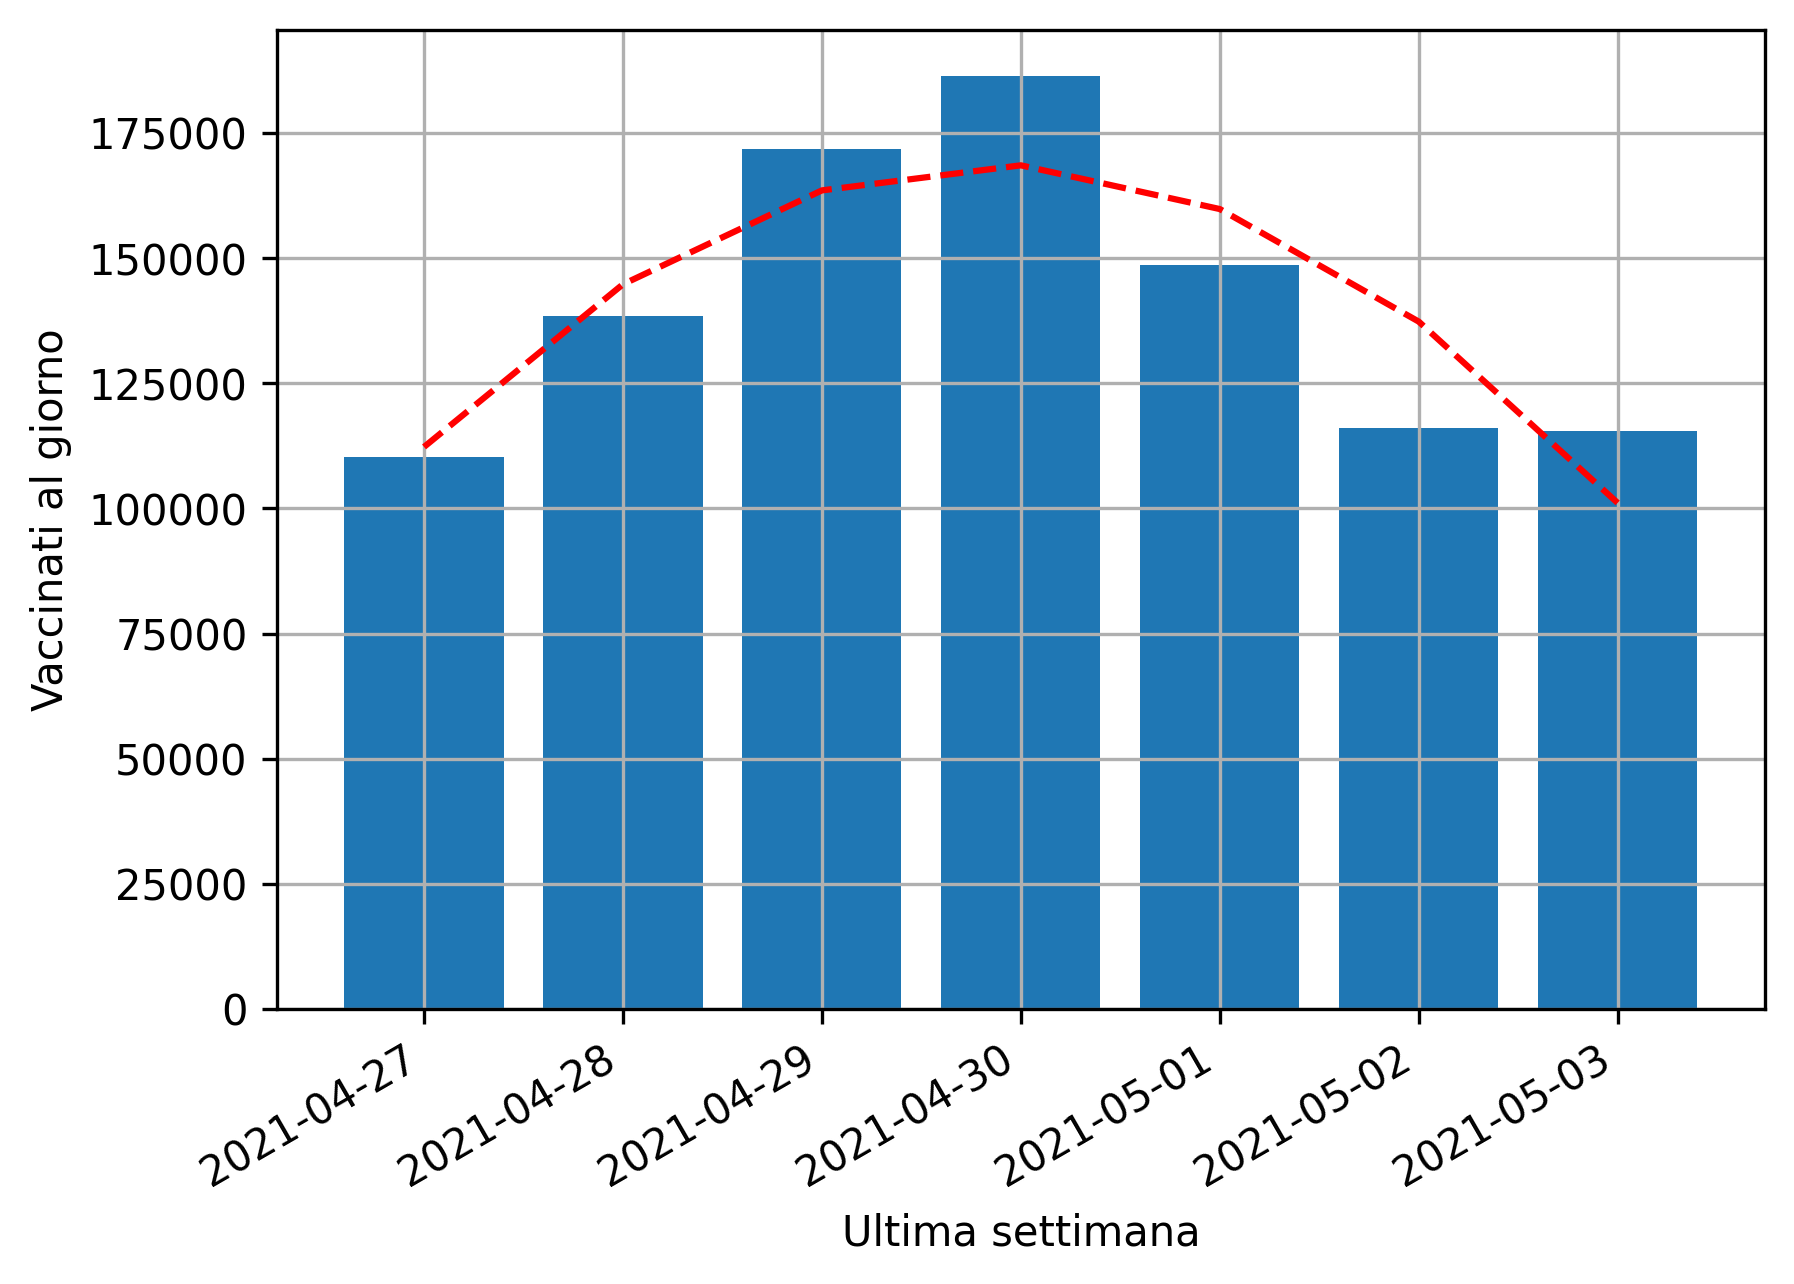
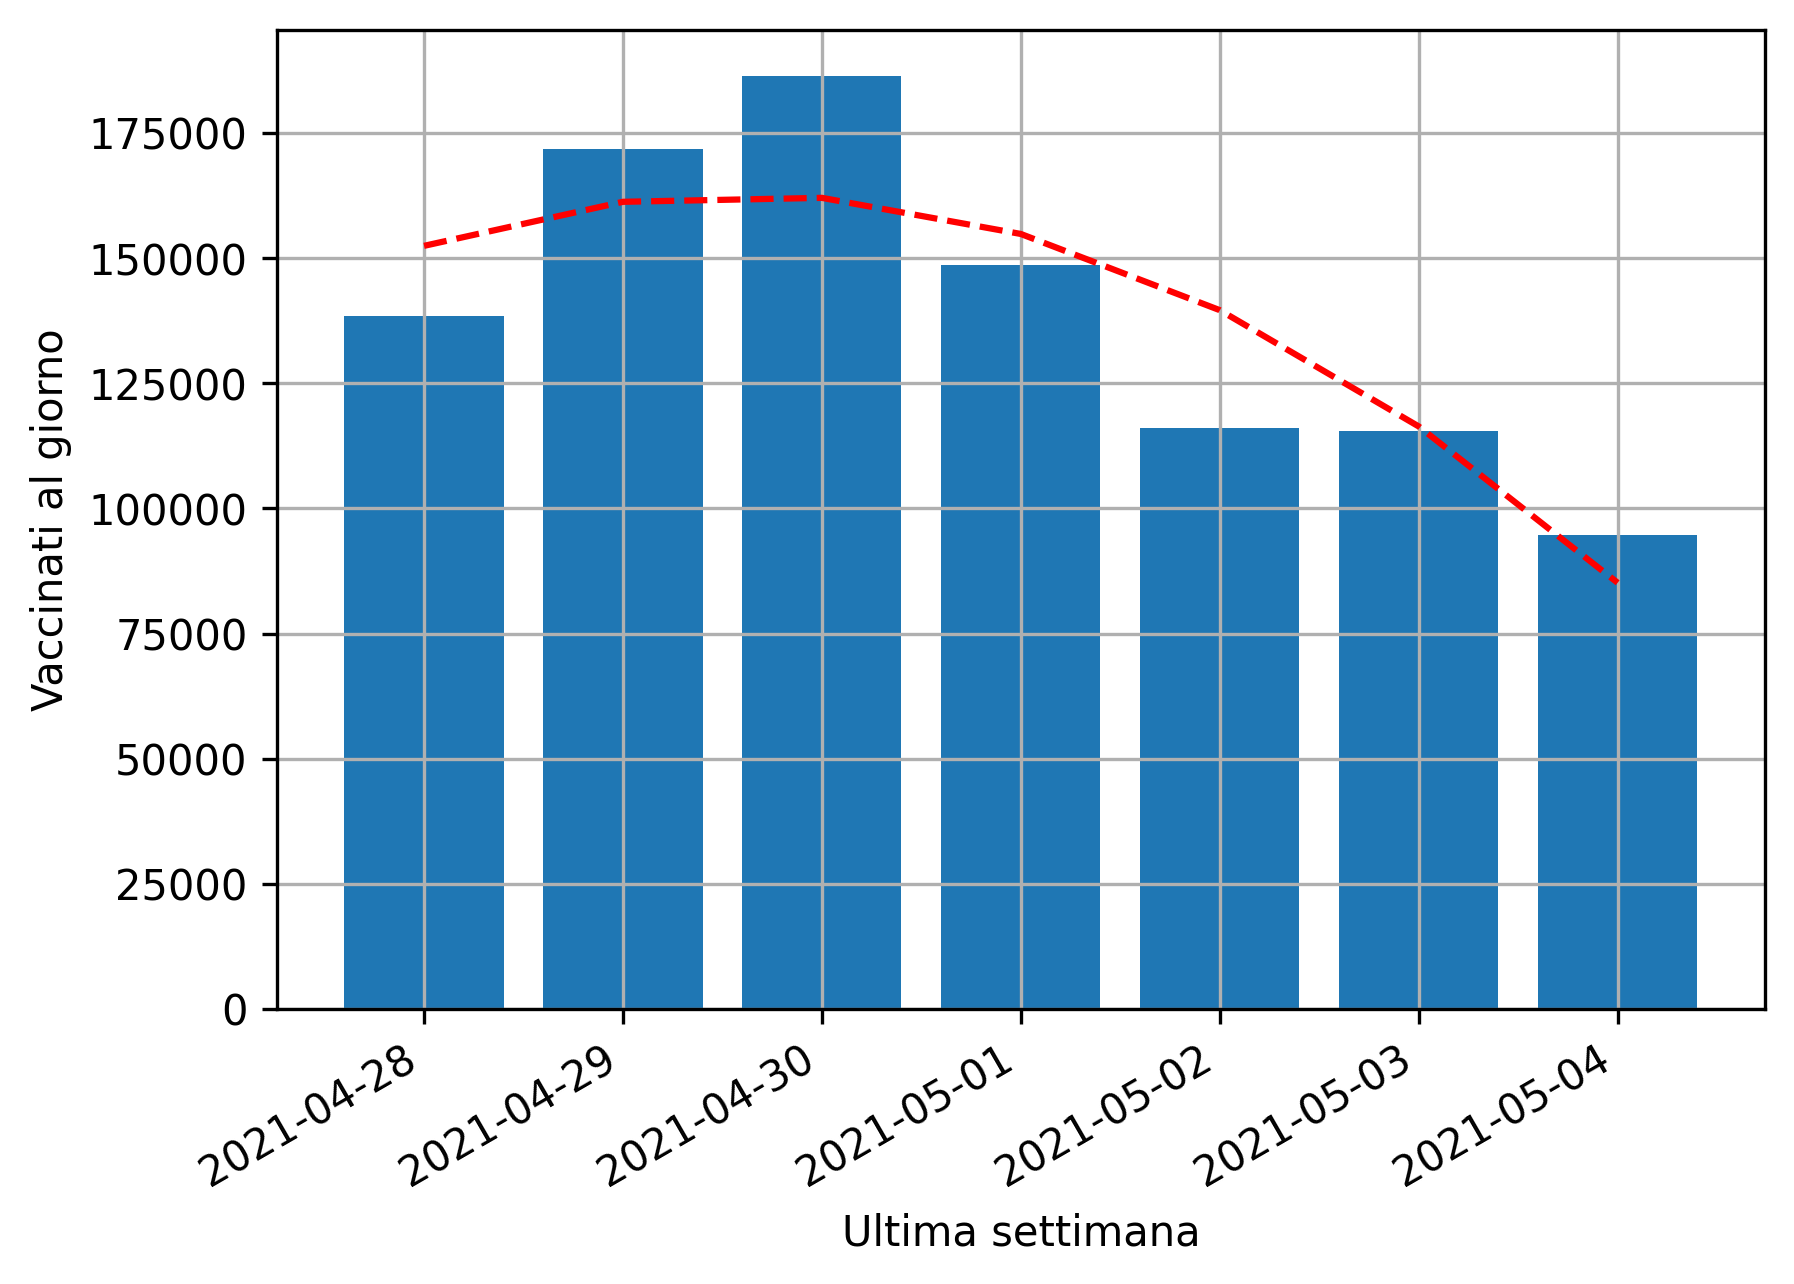
Update dataset and webpage

diff --git a/index.html b/index.html
@@ -71,36 +71,36 @@
 		<div class="text-center">
 			In Italia ci sono <br />
 			<span class="text-big">
-6316599
+6411283
 				persone vaccinate</span> <br />
 			che corrispondono al <br />
 			<span class="text-big">
-10,46%
+10,62%
 				della popolazione.
 			</span> <br />
 			Ne abbiamo vaccinate <br />
 			<span class="text-big">
-987423
+971759
 				nell'ultima settimana,</span> <br />
 			con un ritmo di <br />
 			<span class="text-big">
-141060
+138822
 				vaccinati al giorno.</span> <br />
 			Continuando di questo passo, raggiungeremo l'immunità di gregge il <br />
 			<span class="text-bigger">
-24/02/2022
+01/03/2022
 				<span class="d-none d-sm-inline">
-13:00:28
+15:44:46
 				</span>
 			</span> <br />
 			<span class="text" style="position: relative; top: -5px">ovvero fra</span> <br />
 			<span class="text-bigger" style="position: relative; top: -15px;">
-297
+301
 				giorni.
 			</span>
 		</div>
 		<img alt="Grafico vaccinati ultima settimana" src="
-plot.png?build=92d5c5042888fccca5b916b177d4f0fa4fbe30eb1ab3f8aa435b3ca8595e7b5b
+plot.png?build=679ad7d245f49f6b2c8adc60de9be8e3b43b2c6f7bdf5b113406b3cbc09875b8
 		" class="img-fluid">
 		
 		<h3 class="mt-2">Frequently Asked Questions</h3>
